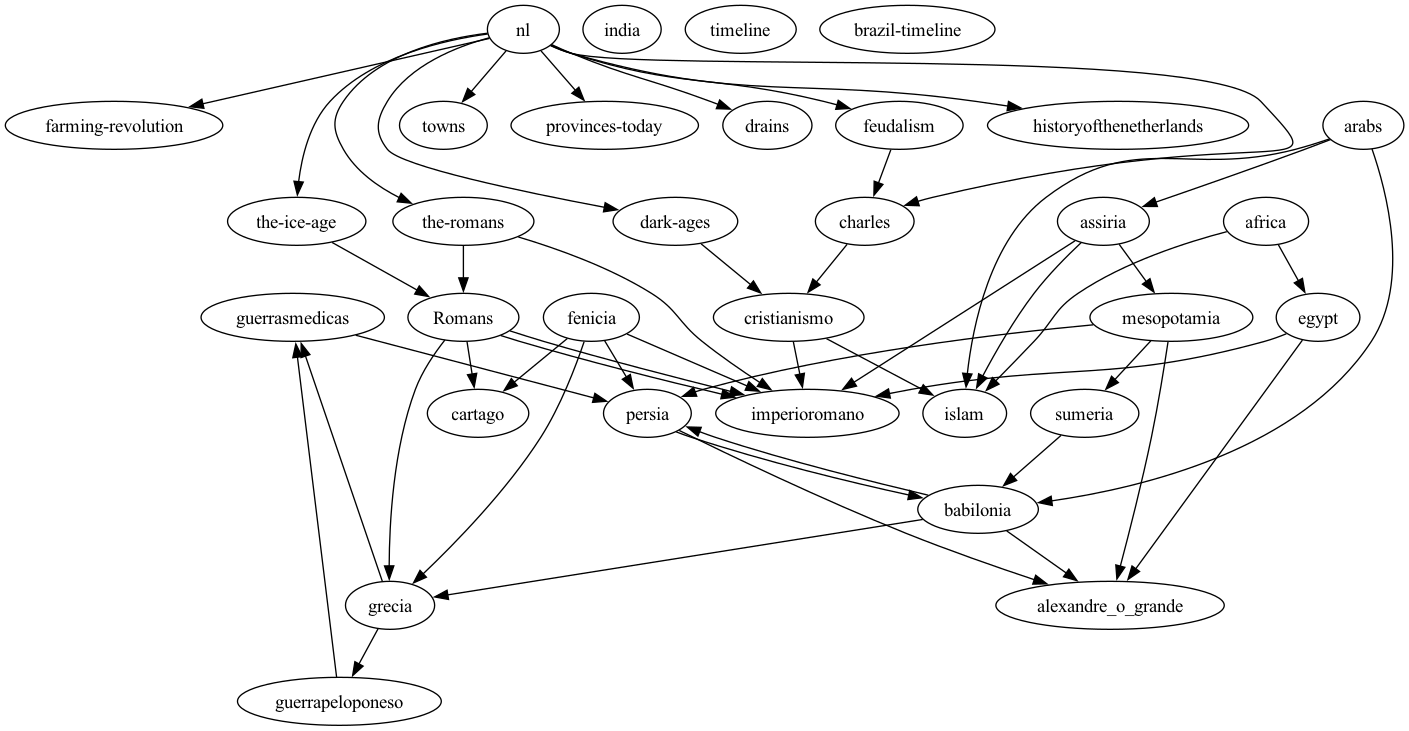
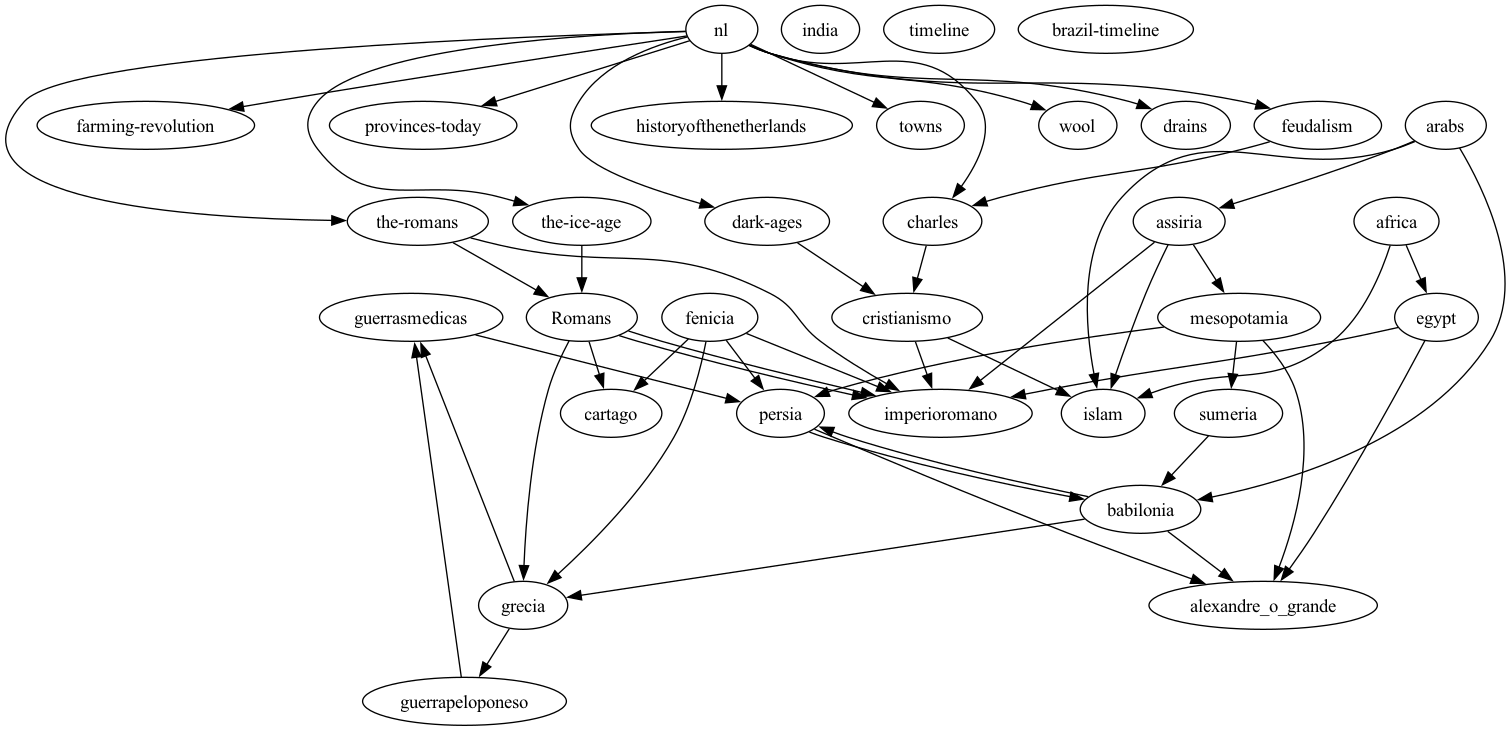
feat: wool flanders, nl ::by sergio giraldo @ 20241225T1119CET, gpg signed

diff --git a/docs/netherlands/wool.md b/docs/netherlands/wool.md
@@ -1,0 +1,74 @@
+# Wool Trade Left Its Mark on Power and Architecture in Medieval Flanders
+
+First, you are shorn off the sheep’s back. The wool comes in a variety of textures, a gradient from coarse to fine, and fibres differing in length. Even wool from the same sheep can differ. So after you’re shorn off, you and your diverse woollen friends are sorted by coarseness – varying qualities being destined for different destinations and textile purposes. You are passed between manual labourers. The shearers, packers and cart-drivers are commoners, who will take any job they can get. You are then packed up and carted off to a nearby marketplace, or even straight on a ship to be taken directly to the destination where pretty much all wool in this part of Europe is taken: to one of the cloth-making towns of Flanders.
+
+Here, more unskilled labourers unpack you and begin the cleaning process, using a chemical bath to take away oils and grease. After this comes the beating, where you are strung up and hit with willow branches, removing residual foreign matter and disentangling remaining knots. You really enjoy the beating, you dirty wool, you. At this stage, you may be dyed for the first time. If so, you have become ‘dyed in the wool’ – so to speak – where preliminary colouration is achieved, most often by use of woad, a plant whose extract turns things blue, or madder, which produces rosy red. Blue woad is the more common, however, and leaves the most lasting impression. Those who work as dyers are often identified by their blue hands for this reason.
+
+| ![map](images/cardingwool.jpg) |
+| *A medieval depiction of women spinning and carding wool, while Queen Tanaquil of Rome operates her loom. Scenes such as this would have been common around Flanders at the time.* |
+
+Carders use devices called, unsurprisingly, cards, which are flat boards with hooks in them, by which the carder can properly separate strands of wool and even blend in other types of wool – sometimes of a different colour – for various effects to appear in the end product. All of the steps in this process are necessary, but carding takes specific knowledge and skill. When it is finished, you are tightly wound on a forked stick, called a distaff. This is to be handed over to the next group of workers, the spinners.
+
+Spinners take you, newly carded wool, tightly wrapped around a distaff, and then use their skilled fingers and a drop-spindle, and spin your fibres into yarn. Here we see the beginning of the final stages in this whole process. After being spun, there is an opportunity for you to be dyed again, if you haven’t been already. Following this, you can now be woven from yarn into cloth.
+
+>By the 11th century the vertical loom had been replaced by the horizontal loom, which was more efficient
+
+Weaving takes skill and knowledge in using a loom. By the 11th century the vertical loom, which had been used for millennia, had been replaced by the horizontal loom, which was more efficient. This technological development was perhaps the most important in the growth of the industrialised, medieval textile industry. The weavers set about using their different types of threads – called warps and wefts for the weaving enthusiasts out there – to turn you, now yarn, into variously textured and coloured cloth.
+
+After being woven, the fullers would have a go at you. Fulling is a pretty disgusting job that involves you being soaked in a chemical bath of hot water, a type of clay called Fuller’s Earth, and urine. This removes any lingering grease. This is all to make you perfect, remember. Fulling is amongst the least respected but necessary jobs. After soaking you, the fuller will then hit you with a hammer or, if you are a particularly fine cloth, stomp you with their fuller’s feet.
+
+<iframe width="560" height="315" src="https://www.youtube.com/embed/cdJVqPQXG9I?si=kguumpkE4DlibG9f" title="YouTube video player" frameborder="0" allow="accelerometer; autoplay; clipboard-write; encrypted-media; gyroscope; picture-in-picture; web-share" referrerpolicy="strict-origin-when-cross-origin" allowfullscreen></iframe>
+
+Each town has its own regulations and requirements of quality that will be enforced via these public inspections, determined by the governing body of the urban elite. Fulled fabrics at this stage can still have a fuzziness to them, and so another skill – called shearing – will be conducted, whereby this fuzz is removed. If you as a piece of fabric are to be truly soft, however, this will happen in conjunction with the process of napping, whereby you will be rubbed softly with a certain prickly plant, by which you can be made to be luxuriously soft. You may undergo any degree of repeat shearing and napping, depending on desired outcomes. You may then be dyed, for either the first, second or third time, before being smoothed between a flat, wooden vice.
+
+And now, finally, here you are, at the end of this entire process. You are ready to be folded up, soft and smooth to the touch, and packed off to a market, or sold directly to whoever will pay the right price for you. To end this train of thought, you can imagine now ending up in any variety of destinations.
+
+>The patriciate provide a market for the most luxurious fabrics, whilst the nouveaux riches see fine fabrics as an expression of their own quality
+
+By the 1200s, Flemish wool is renowned around Europe. The highest quality stuff is being shipped across the continent, to clothe the nobility and to drape their manors and palaces from Italy to England. The patriciate – the urban elite who govern the towns, also provide a market for the most luxurious fabrics, whilst the nouveaux riches – those emerging entrepreneurs who have new wealth but not so much political influence, see fine fabrics as an expression of their own quality. Lesser quality fabrics might end up in monasteries and cloisters, or more often in everyday households.
+
+So any of these places could be your final destination. Starting as wool off a sheep’s back in northern Europe in the 13th century, you truly could end up anywhere, but probably not before going through one of these Flemish towns, and this whole process first.
+
+## The emerging power of craft guilds
+
+From the 12th century, guilds emerged around Europe. The first guilds to emerge in the low countries were merchant guilds, which had become the urban patriciate. With the rise in population and the importance of specialised workers due to the growth of industry, craft guilds came into existence. In Flanders, it has been suggested that they started as religious groups, where workers from specific trades united in Christian devotion and solidarity to each other and Jesus.
+
+Craft guilds would be created for almost every type of profession; there would be guilds of blacksmiths, soapmakers, bakers, butchers etc. They would have a monopoly on their respective industries in the areas that they set up, so for example if you wanted to be a baker, you needed to become a member of the bakers guild of the town you were in. Guilds would have the task of controlling the quality of products produced, maintaining the stability of prices and fighting for the interests of their members. They had a strict hierarchy. At the pointy end were masters, below them journeymen and at the bottom were apprentices.
+
+| ![map](images/draperguild.jpg) |
+| *The Syndics of the Draper’s Guild in Amsterdam inspect the quality of cloth. Painting by Rembrandt van Rijn, 1662* |
+
+Guilds operated along almost communistic lines in controlling the specific trades they governed. Guild administrations analysed what the market was doing, what the condition of supply was, and then decreed the work available to its members, as well as wages. The purchase of supplies was controlled by the guild, which disallowed any one person from cornering a market or buying up excessive quantities of whatever. It could be extremely restrictive, but the system would persevere and eventually come to define public structure.
+
+For patricians – the urban elite who ran everything – the threat of guilds to their grip on power in towns would have become evident from fairly early on. The skilled craftsmen and low-level traders who all played necessary roles for the proper functioning of the ever lucrative cloth industry had no political representation but were now forming into bodies who could demand just such. As a result, the emergence of guilds was met with resistance by the patricians, who tried to curb the growth of the guilds’ political potential. If you were a member of this patrician elite, you wouldn’t want your profits being cut into just because a group of pesky workers thought they deserved more pay.
+
+>Guilds would become a powerful force in the lowlands over the coming centuries
+
+Because the urban elite controlled wages, dissent began to foment amongst the workers’ guilds by the mid-1200s. There is evidence in Flemish town ordinances emerging at this time prohibiting workers going on strike, as with Douai in 1245, and that were against the assembly and formation of societies amongst cloth workers, as with St Omer in 1250. These ordinances were passed by the respective town councils, comprised of the patriciate, in response to strikes amongst textile workers.
+
+These measures were, unsurprisingly, not successful in preventing workers from showing their discontent. Textile workers in Ghent went on strike in 1252 and in 1274 again, along with the workers in Douai. 1280-81 saw a year of general strikes across Flanders; in Ghent, Ypres, St Omer, Bruges and other cities. In these strikes, workers were led by the nouveaux riches of the merchant class; the wealthy who were not amongst the patriciate. Guilds would become a powerful force in the lowlands over the coming centuries, and it is at this point that their journey towards political, social and cultural influence in the lowlands began.
+
+## The rising importance of Bruges
+
+The success of Flemish cloth had initially taken merchants from the cloth towns out of Flanders to places like England, from which almost all the raw wool used in the industry was acquired. By the late 13th century, Bruges had taken the lead position of 15 Flemish cloth towns in the Flemish Hanse of London. The Champagne region was extremely important, as Flemish merchants could sell their fine wares at extensive, annual trade fairs. There, lowlander merchants could connect to Italian merchants, who snapped up the famous Flemish cloth.
+
+However, this also caused a backlash by merchants of these distant markets, who began themselves travelling to Bruges, where they could invest capital, set up shops where possible, and arrange the transport of cloth back to their home markets. Italian merchants were big on this game. Importantly for them, the Genoese and then the Venetians figured out the sea routes to Flanders through the straits of Gibraltar from 1277, and so the overland trade routes between Italy and Flanders, which met at the markets in Champagne, began to lose their prominence. That prominence was taken over by Bruges.
+
+| ![map](images/bruges.jpg) |
+| *Trade routes to and from Bruges* |
+
+The switch from overland trade to vast amounts of foreign merchants and foreign ships coming and going from Bruges by the end of the thirteenth century thus began to cut down the influence of the Flemish merchants themselves and with this loss of power their stranglehold on the labour market, and of quality control, was loosened and slowly taken over by guilds. In addition to foreign merchant organisations, such as the Hanseatic League, which set up offices in Bruges, foreign banking interests also descended upon the new capital of commerce.
+
+| ![map](images/belfrybruges.jpg) |
+| *The iconic belfry of Bruges* |
+
+The two richest banking families in Western Europe, the Medicis from Florence and the Fuggers from Augsburg, both set up branches in Bruges, introducing serious investment capital and services for money exchange. The most important foreign partner for Bruges though, was by far England. England was the source of almost all of the wool used in the Flemish cloth towns and the economy of Flanders would be dependent on its availability.
+
+The architecture of Bruges and other cloth towns began to reflect the new economic situation and power dynamics of the age. The most important location was the market square, around which huge new buildings were erected. This included a belfry, with great, chiming bells ringing out, telling people when to start working and when to stop, as well as calling people to gather when they were required in matters of civic justice. Waterhalls were constructed, in which ships’ cargo would be unloaded and stored to be sold at the market.
+
+| ![map](images/labors.jpg) |
+| *Labors of the Months: October, from a Flemish Book of Hours (Bruges), by Simon Bening (c. 1483/4-1561). Note the people walking in the treadwheel crane* |
+
+Bruges famously had a giant, wooden, treadwheel crane that looked like the Sandcrawler used by the Jawas on Tattooine. The treadwheel crane would be powered by people walking in a kind of giant hamster wheel, which would provide the energy needed for the crane to lift goods and shift them around. It became a famous sight to behold for people visiting the city.
+
+Guild houses were built, where the administration of the different guilds was carried out and where members would meet. The largest was the cloth hall, in which the overseas trade was arranged, funded by the wealth brought in by all these international visitors. The guildhalls were the centre of everything in town, like prototype town halls. Now, within the cultural framework of the lowlands, there were legitimately civic buildings; a place in the town centre which could be a focal point for the town’s identity, that was not a church nor a castle, but a reflection of the people and the business of the town.

diff --git a/docs/netherlands/nl.md b/docs/netherlands/nl.md
@@ -19,3 +19,5 @@
 [Getting Down in Town](towns)
 
 [Draining the Swamp](drains)
+
+[Wool Trade Left Its Mark on Power and Architecture in Medieval Flanders](wool)
